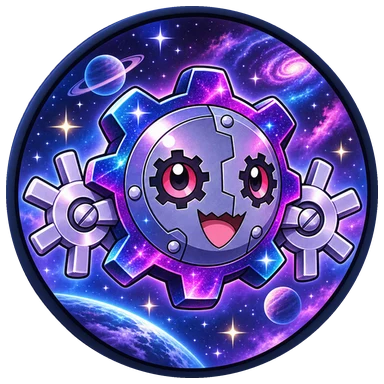
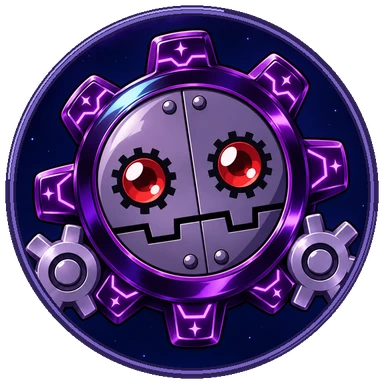
Publica los iconos de las skins galácticas

diff --git a/index.html b/index.html
@@ -14610,7 +14610,7 @@ const SKIN_ICONS = [
   {key:'gatomon', skin:'variocolor'},
   {key:'gatomon', skin:'festival'},
   {key:'gatomon', skin:'reno'}
-].map(x => ({...x, id: x.key + '_' + x.skin, src: 'ui/jugador/' + x.key + '_' + x.skin + '.webp' + '?arte=ilustrado'}));
+].map(x => ({...x, id: x.key + '_' + x.skin, src: 'ui/jugador/' + x.key + '_' + x.skin + '.webp?arte=' + (x.skin === 'galactico' ? 'galaxia' : 'ilustrado')}));
 function skinIconName(ic){ const sk = SKINS.find(s => s.id === ic.skin); return CHARS[ic.key].name + ' ' + (sk ? sk.name : ic.skin); }
 function ownsSkinIcon(ic){ return ownsAnyStage(ic.key, ic.skin); }
 function skinIconFor(key, skin){ return SKIN_ICONS.find(x => x.key === key && x.skin === skin) || null; }
